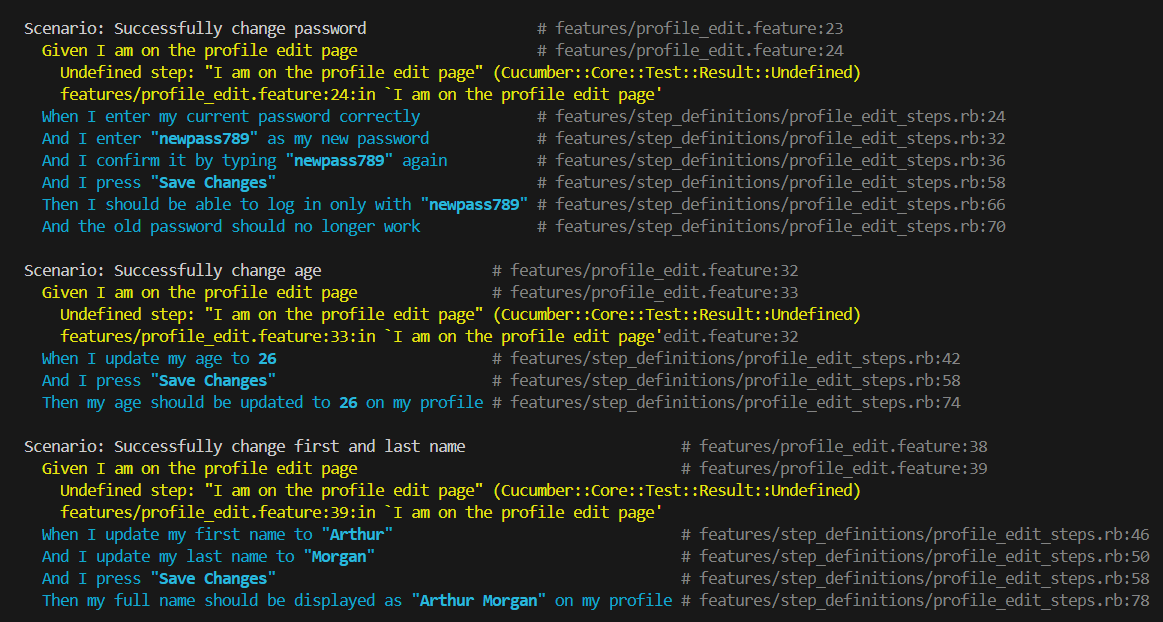
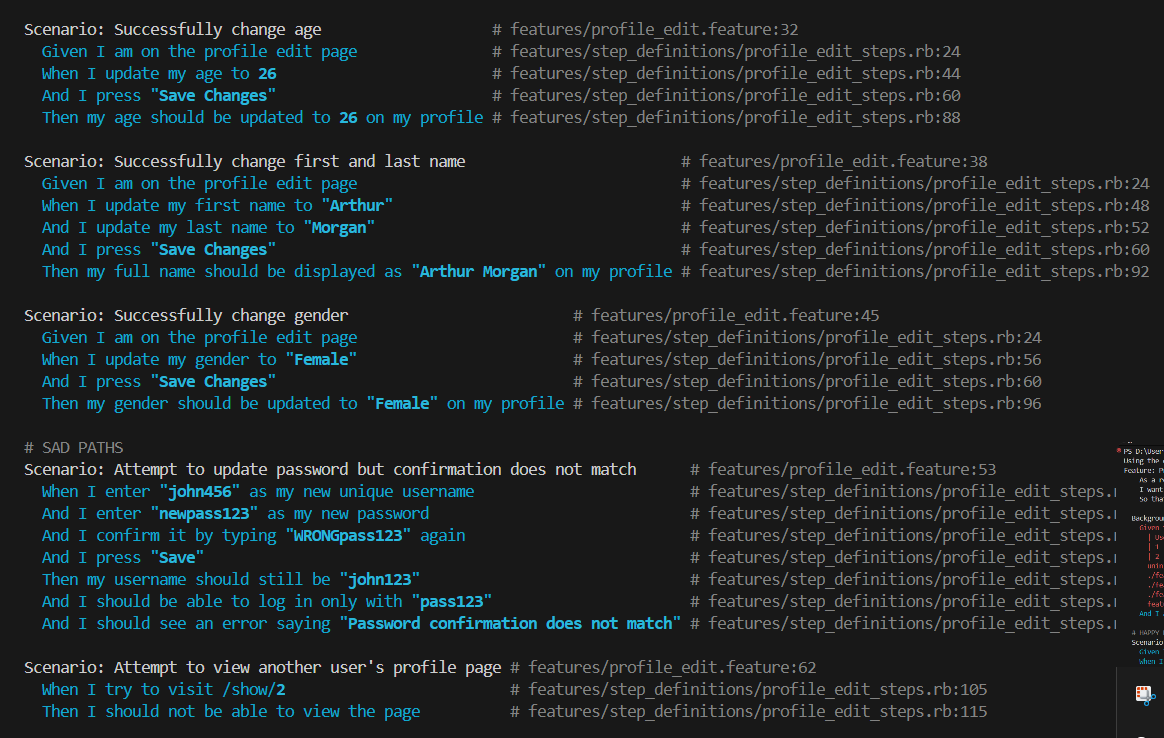
fixed undefined steps and screenshots

Changed region(s): [[0.0, 0.0305, 1.0, 0.9775]]

diff --git a/features/step_definitions/profile_edit_steps.rb b/features/step_definitions/profile_edit_steps.rb
@@ -21,6 +21,10 @@ Given(/^I am UserID (\d+)$/) do |user_id|
   @old_password = @user.password
 end
 
+Given(/^I am on the profile edit page$/) do
+  @current_path = "/profile_edit/#{@current_user.user_id}"
+end
+
 When(/^I enter my current password correctly$/) do
   expect(@current_user.password).not_to be_nil
 end
@@ -65,6 +69,10 @@ Then(/^I should see an error saying "(.*)"$/) do |error_text|
   expect(@error_message).to eq(error_text)
 end
 
+Then(/^my username should still be "(.*)"$/) do |original_username|
+  expect(@current_user.username).to eq(original_username)
+end
+
 Then(/^my username should be updated to "(.*)"$/) do |new_username|
   expect(@current_user.username).to eq(new_username)
 end
@@ -85,8 +93,13 @@ Then(/^my full name should be displayed as "(.*)" on my profile$/) do |full_name
   expect("#{@current_user.first_name} #{@current_user.last_name}").to eq(full_name)
 end
 
-Then(/^my gender should be updated to "(.*)"$/) do |gender|
+Then(/^my gender should be updated to "(.*)" on my profile$/) do |gender|
   expect(@current_user.gender).to eq(gender)
+end
+
+Then(/^I should see a success confirmation message$/) do
+  @flash_message = "Profile updated successfully!"
+  expect(@flash_message).to eq("Profile updated successfully!")
 end
 
 When(/^I try to visit \/show\/(\d+)$/) do |requested_id|
@@ -95,11 +108,11 @@ When(/^I try to visit \/show\/(\d+)$/) do |requested_id|
    
   else
      @page_error = "Access denied"
-     @current_path = "/show/#{@current_user.UserID}"
+     @current_path = "/show/#{@current_user.user_id}"
   end
 end
 
 Then(/^I should not be able to view the page$/) do
   expect(@page_error).to eq("Access denied")
-  expect(@current_path).to eq("/show/#{@current_user.UserID}")
+  expect(@current_path).to eq("/show/#{@current_user.user_id}")
 end
